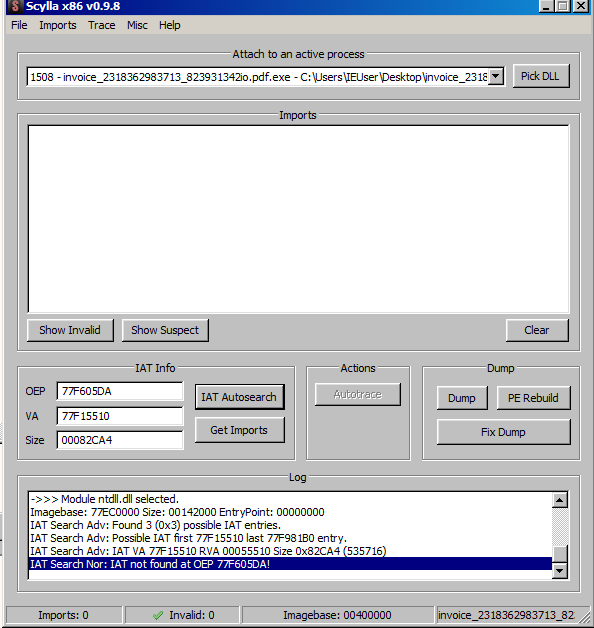
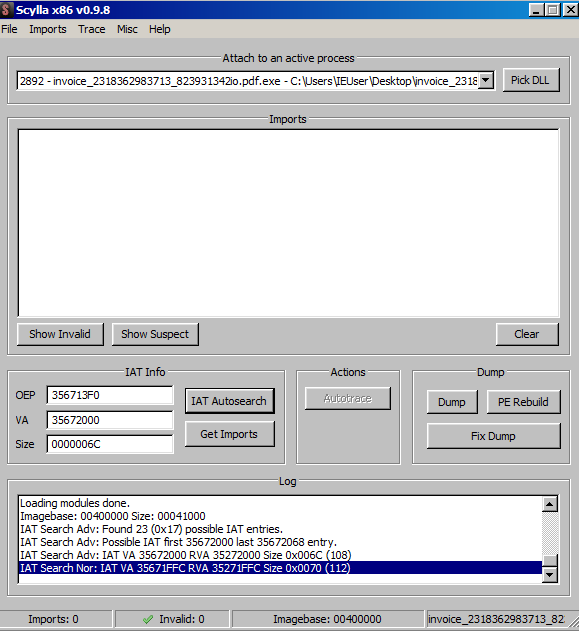
iniciando Modulo 6

Changed region(s): [[0.0, 0.0, 1.0, 1.0]]

diff --git a/LABS/Investigating Malware/ZeusBankingVersion_26Nov2013/zeusbank.md b/LABS/Investigating Malware/ZeusBankingVersion_26Nov2013/zeusbank.md
@@ -857,22 +857,24 @@ Este fue el paso decisivo. En lugar de adivinar cuándo saltará, vigilamos el b
 
 ## Fase 5: Extracción (Scylla)
 
-![scylla-fin.png](capturas/scylla-1.png)
-
-![scylla-fin.png](capturas/scylla-2.png)
-
-![scylla-fin.png](capturas/scylla-fin.png)
 Aquí es donde aseguramos el botín.
 - Abrimos Scylla: Plugins > Scylla (o el icono del semáforo/casco).
+  ![scylla](capturas/scylla-0.png)
 - Corregimos el OEP (CRUCIAL):
+  ![scylla](capturas/scylla-0-1.png)
   - Scylla a veces se confunde y pone una dirección de Windows (77...).
   - Bórrala y asegúrate de que pone la dirección donde estás parado ahora mismo (la del paso 4).
 - Reconstruye la IAT:
   - Clic en IAT Autosearch. (Debe decir "IAT found").
+    ![scylla](capturas/scylla-1.png)
   - Clic en Get Imports. (Debe salir una lista de librerías válida).
+    ![scylla](capturas/scylla-2.png)
 - Vuelca el Archivo:
   - Clic en Dump PE -> Guarda como zeus_unpacked.exe.
   - Clic en Fix Dump -> Selecciona el archivo anterior.
+
+
+
 
 -----------------------------------------------------------------------------------
 ***********************************************************************************
